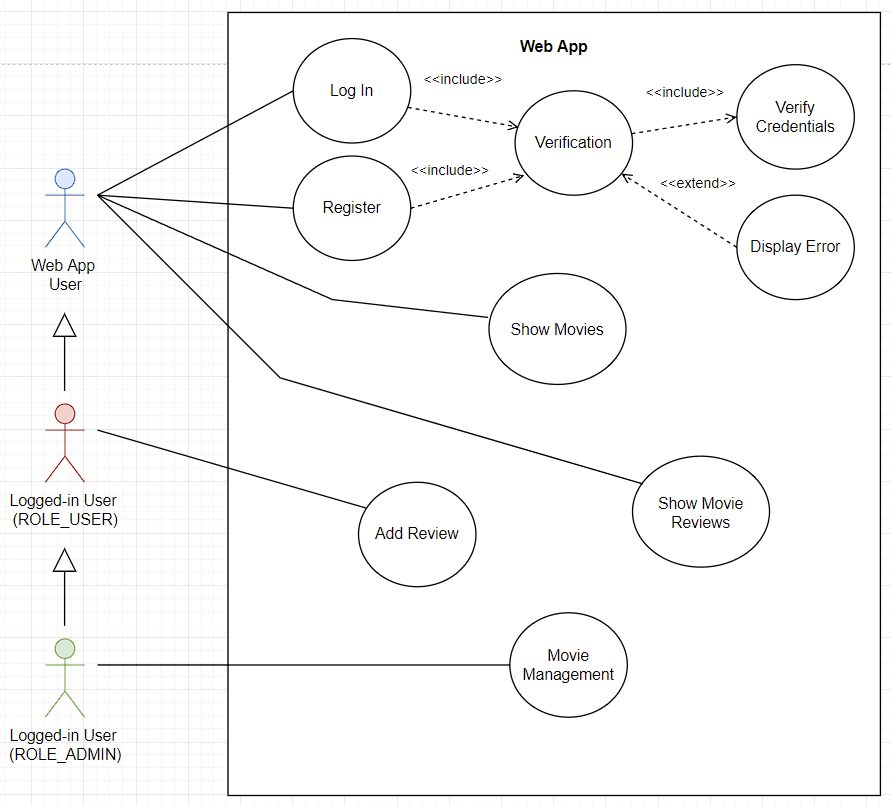
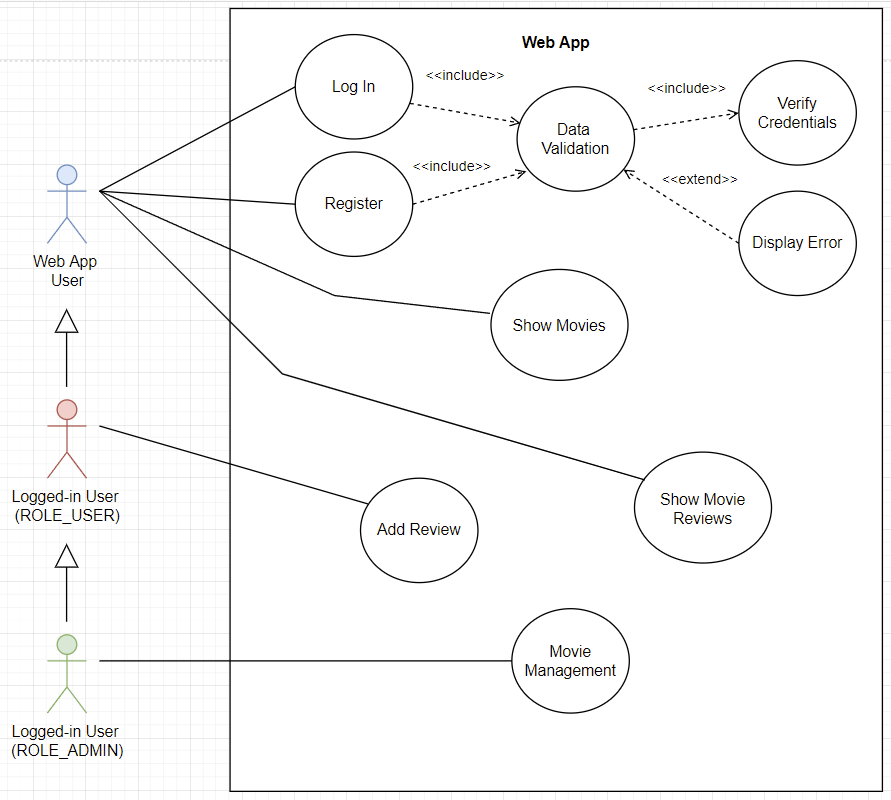
use case + readme update

diff --git a/README.md b/README.md
@@ -35,3 +35,6 @@
 
 ## Design Sequence Diagram:
 ![design_sequence_diagram](diagrams/sequence_diagrams/design.png)
+
+## EPC Diagram:
+![epc_diagram](diagrams/event_driven_process_chain/epc_diagram.png)
